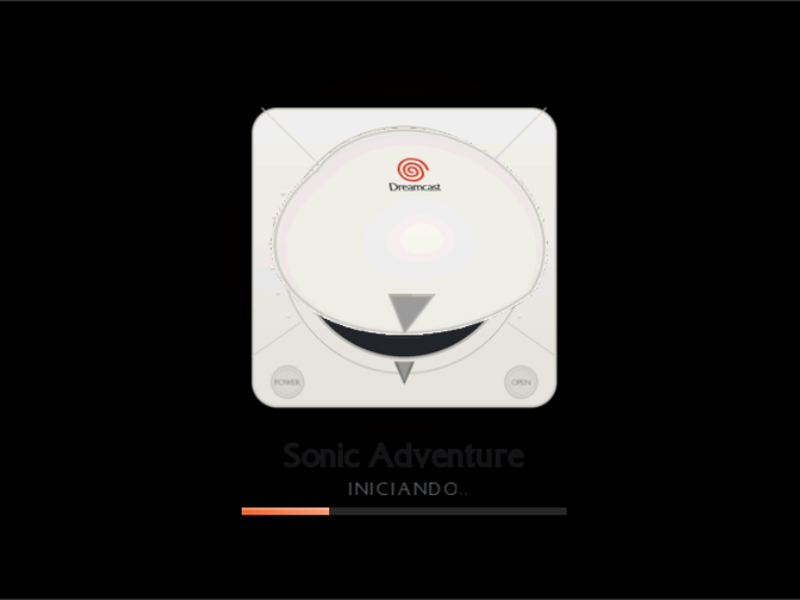
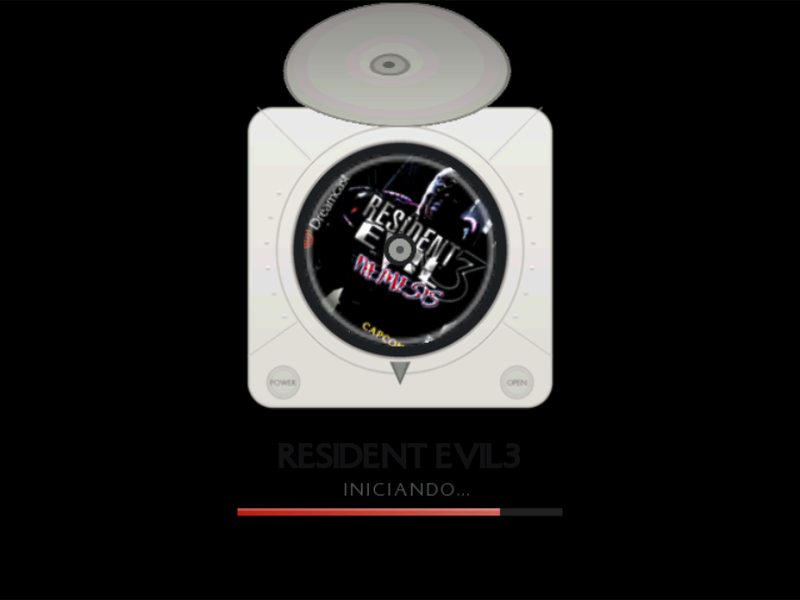
README: new screenshots from the real card (Crazy Taxi, Resident Evil 3), demo GIF and link to the full video

diff --git a/README.md b/README.md
@@ -28,15 +28,20 @@ Full feature list and details: [docs/MENU.md](docs/MENU.md).
 
 ## Screenshots
 
+<p align="center"><img src="docs/screenshots/demo.gif" width="480" alt="Cast Menu demo: Crazy Taxi and Resident Evil 3 with clips, then the launch animation"></p>
+
+<p align="center"><a href="https://github.com/hudsonbrendon/castmenu/releases/download/v0.5.0/castmenu-demo.mp4">▶ Full demo video with the game music (2 min)</a></p>
+
 | | |
 |---|---|
 | ![coverflow](docs/screenshots/coverflow.png) | ![details](docs/screenshots/details.png) |
+| ![Resident Evil 3](docs/screenshots/coverflow-re3.png) | ![details with synopsis](docs/screenshots/details-re3.png) |
 | ![launch animation](docs/screenshots/launch.png) | ![last played](docs/screenshots/sidebar.png) |
 | ![list](docs/screenshots/list.png) | ![grid](docs/screenshots/grid.png) |
 | ![settings](docs/screenshots/settings.png) | ![system](docs/screenshots/sysinfo.png) |
-| ![theme Controller](docs/screenshots/theme-controller.png) | ![theme Dreamcast Dark](docs/screenshots/theme-dreamcast-dark.png) |
+| ![theme Controller](docs/screenshots/theme-controller.png) | ![theme Terminal](docs/screenshots/theme-terminal.png) |
 
-Captured in the redream emulator from a real card. More in `docs/screenshots/`.
+Captured in the redream emulator from a real card.
 
 ## Quick start
 
